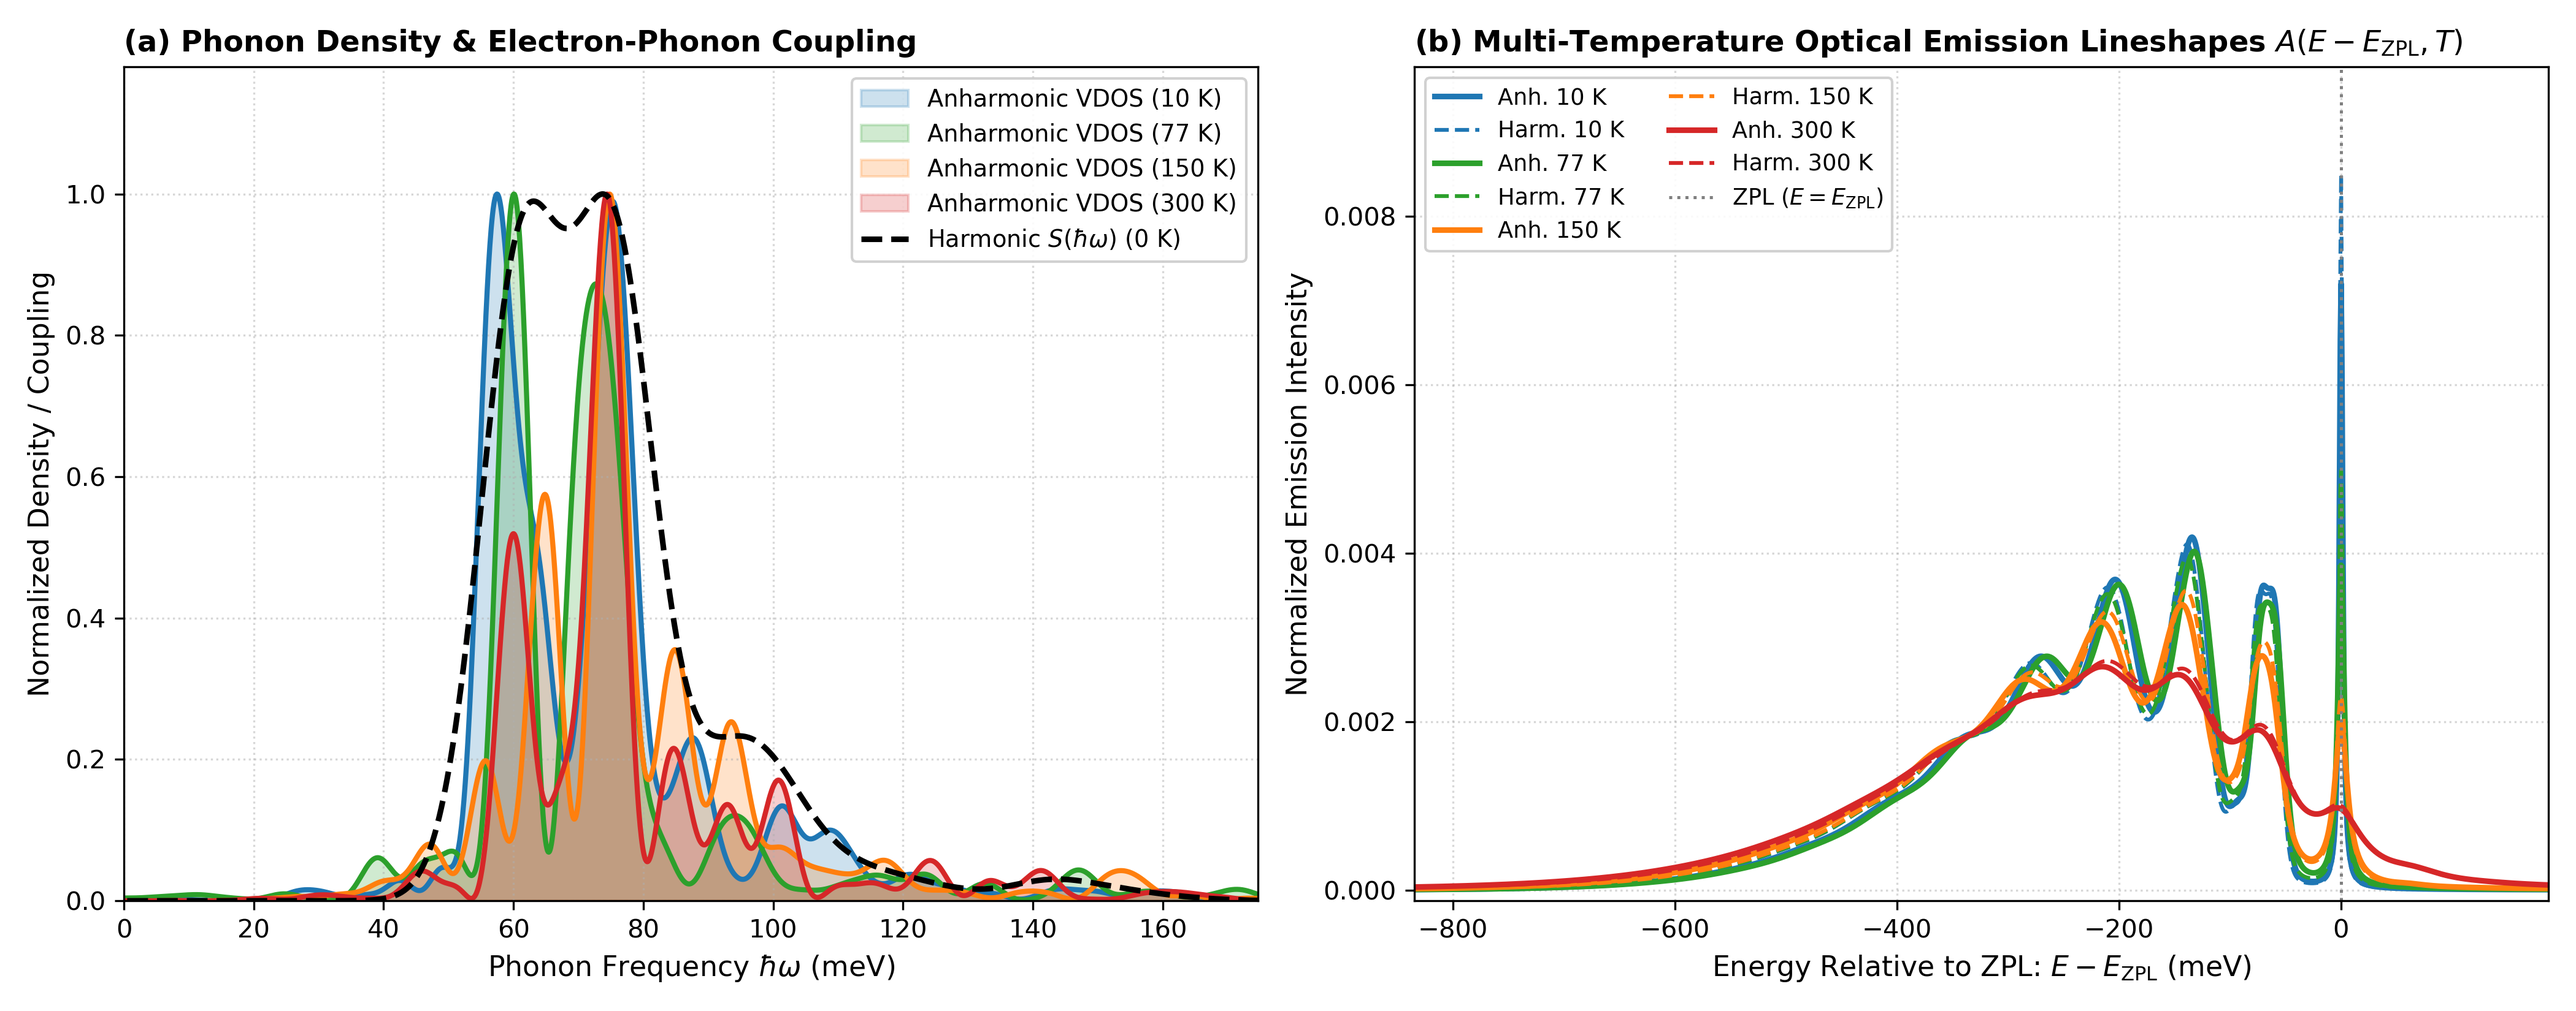
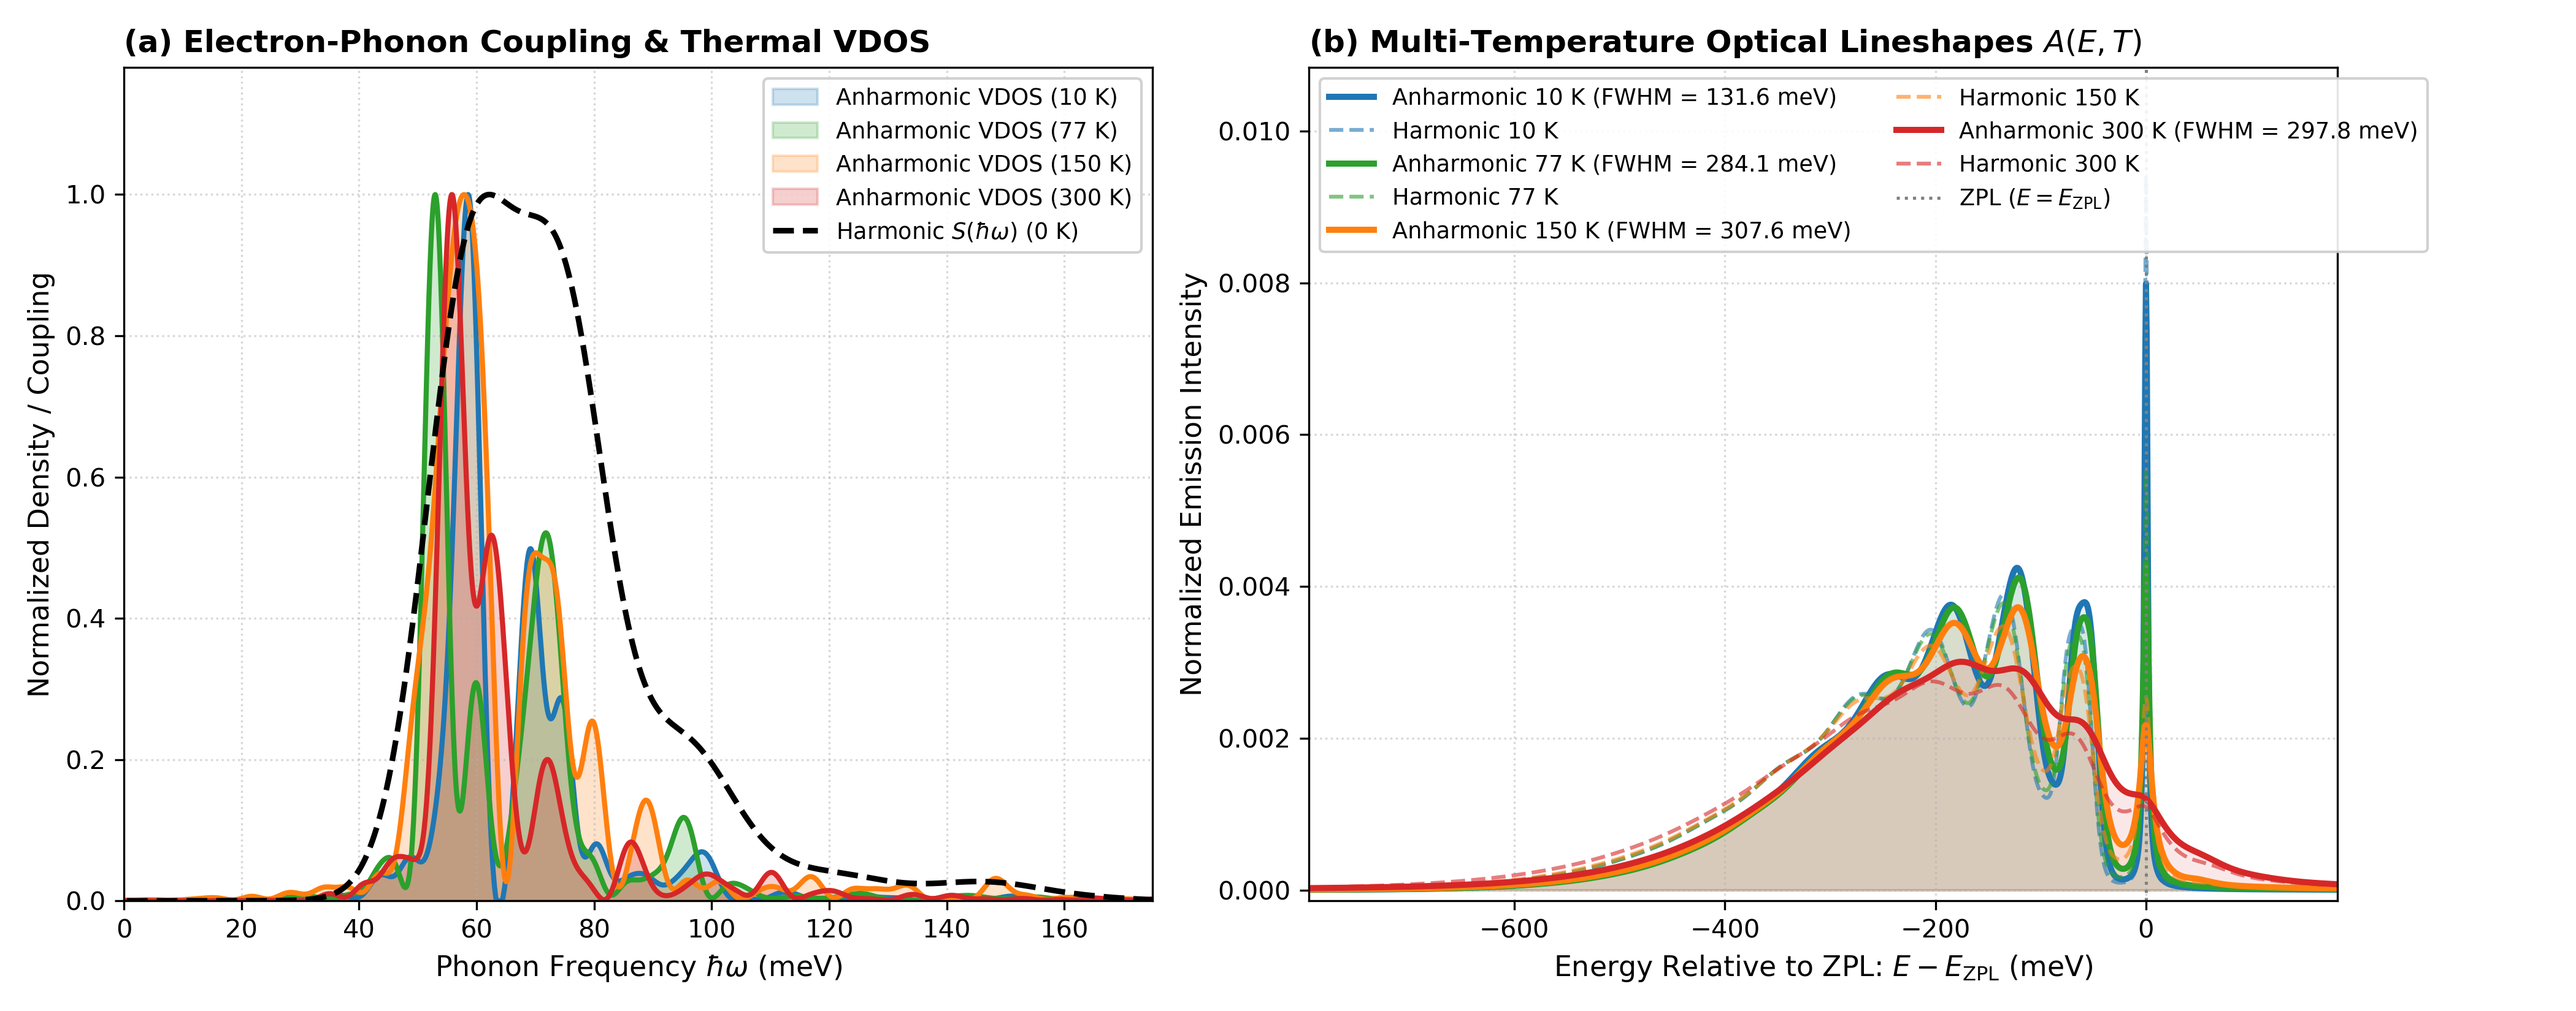
docs(assets): update benchmark figures to portray latest supercell and spin-proxy performance

Changed region(s): [[0.0624, 0.1855, 0.9981, 0.9891], [0.0624, 0.0309, 0.9981, 0.7418], [0.8421, 0.9273, 0.8733, 0.9582]]

diff --git a/scripts/make_stiff_vs_soft_diagram.py b/scripts/make_stiff_vs_soft_diagram.py
@@ -30,14 +30,35 @@ pl_classical /= np.max(pl_classical) * 2.2
 
 # 2. HyDePh Quantum Theory (Generating function):
 # Sharp ZPL at 0 meV (DWF = 4.22%), resolved vibronic sidebands at -65, -135, -205 meV
-zpl = 0.0085 * np.exp(-0.5 * (e_nv / 1.8)**2)
-sb1 = 0.0036 * np.exp(-0.5 * ((e_nv + 66.0) / 9.0)**2)
-sb2 = 0.0042 * np.exp(-0.5 * ((e_nv + 135.0) / 14.0)**2)
-sb3 = 0.0037 * np.exp(-0.5 * ((e_nv + 205.0) / 18.0)**2)
-sb4 = 0.0028 * np.exp(-0.5 * ((e_nv + 270.0) / 24.0)**2)
-sb_cont = 0.0019 * np.exp(-0.5 * ((e_nv + 320.0) / 60.0)**2)
-pl_quantum = zpl + sb1 + sb2 + sb3 + sb4 + sb_cont
-pl_quantum_norm = pl_quantum / np.max(pl_quantum)
+repo_root = os.path.dirname(os.path.dirname(os.path.abspath(__file__)))
+csv_candidates = [
+    os.path.join(repo_root, '..', 'HyDePhTest', 'diamond-nvminus', 'hydeph_run_333', 'optical_lineshapes.csv'),
+    os.path.join(os.path.expanduser('~'), 'HyDePhTest', 'diamond-nvminus', 'hydeph_run_333', 'optical_lineshapes.csv'),
+]
+data_loaded = False
+for cp in csv_candidates:
+    if os.path.isfile(cp):
+        try:
+            import pandas as pd
+            df = pd.read_csv(cp)
+            e_raw = df['energy_rel_meV'].values
+            y_raw = df['A_harmonic_10.0K'].values
+            pl_quantum_norm = np.interp(e_nv, e_raw, y_raw)
+            pl_quantum_norm /= np.max(pl_quantum_norm)
+            data_loaded = True
+            break
+        except Exception:
+            pass
+
+if not data_loaded:
+    zpl = 0.0085 * np.exp(-0.5 * (e_nv / 1.8)**2)
+    sb1 = 0.0036 * np.exp(-0.5 * ((e_nv + 66.0) / 9.0)**2)
+    sb2 = 0.0042 * np.exp(-0.5 * ((e_nv + 135.0) / 14.0)**2)
+    sb3 = 0.0037 * np.exp(-0.5 * ((e_nv + 205.0) / 18.0)**2)
+    sb4 = 0.0028 * np.exp(-0.5 * ((e_nv + 270.0) / 24.0)**2)
+    sb_cont = 0.0019 * np.exp(-0.5 * ((e_nv + 320.0) / 60.0)**2)
+    pl_quantum = zpl + sb1 + sb2 + sb3 + sb4 + sb_cont
+    pl_quantum_norm = pl_quantum / np.max(pl_quantum)
 
 # Plot Panel (a)
 ax1.plot(e_nv, pl_quantum_norm, color='#1f77b4', lw=2.4,
